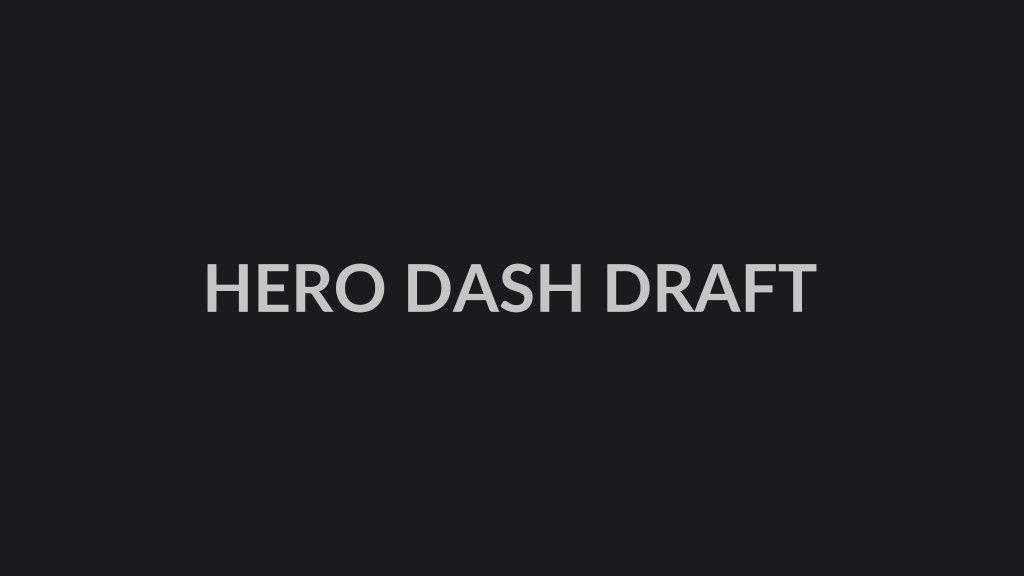
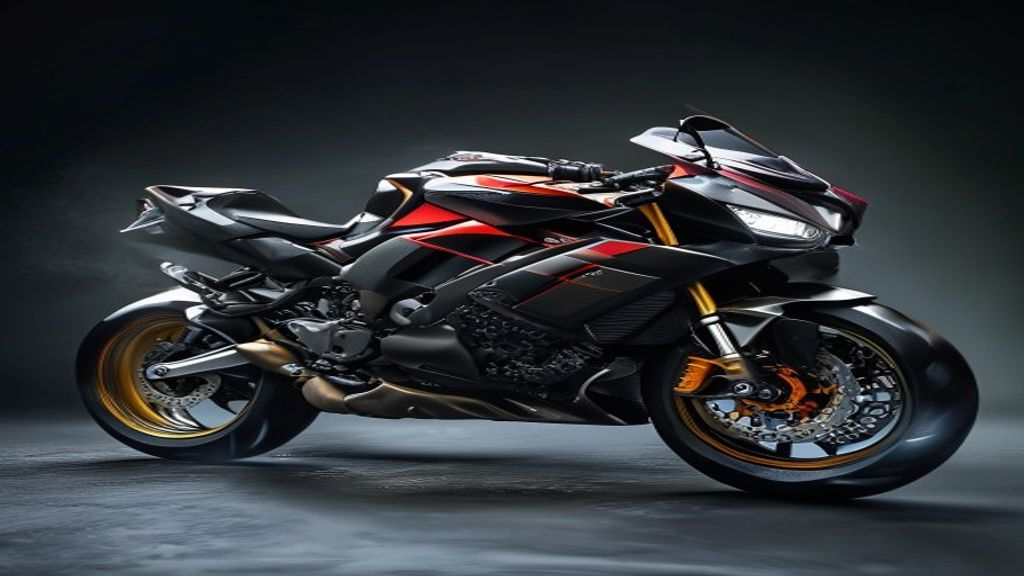
Update from Admin Panel (SDK Push) - 2026-06-10T13:17:52.278Z

diff --git a/src/pages/YedekParca.tsx b/src/pages/YedekParca.tsx
@@ -48,7 +48,7 @@ try {
   console.warn("Session storage read failed:", e);
 }
 
-const BRANDS_LIST = ["Tümü", "TVS", "Hero", "Falcon", "Işıldar", "RapidoX", "Kuba", "RKS", "Mondial", "HONDA", "BAJAJ", "BANDO", "NGK", "VARTA", "CFMOTO", "YAMAHA", "SUZUKI", "VESPA", "SYM"] as const;
+const BRANDS_LIST = ["Tümü", "TVS", "Hero", "Falcon", "Işıldar", "Vox", "RapidoX", "Kuba", "RKS", "Mondial", "HONDA", "BAJAJ", "BANDO", "NGK", "VARTA", "CFMOTO", "YAMAHA", "SUZUKI", "VESPA", "SYM"] as const;
 
 const CATEGORIES_LIST = [
   { slug: "tumu", name: "Tüm Kategoriler" },

diff --git a/src/pages/admin/AdminProducts.tsx b/src/pages/admin/AdminProducts.tsx
@@ -288,7 +288,7 @@ const AdminProducts = () => {
 
   const filtered = items;
 
-  const allBrands = ["TVS", "Hero", "Falcon", "Işıldar", "RapidoX", "Kuba", "RKS", "Mondial", "HONDA", "BAJAJ", "BANDO", "NGK", "VARTA", "CFMOTO", "YAMAHA", "SUZUKI", "VESPA", "SYM"];
+  const allBrands = ["TVS", "Hero", "Falcon", "Işıldar", "Vox", "RapidoX", "Kuba", "RKS", "Mondial", "HONDA", "BAJAJ", "BANDO", "NGK", "VARTA", "CFMOTO", "YAMAHA", "SUZUKI", "VESPA", "SYM"];
 
   const autoFixAllBrokenTitles = async () => {
     setOptimizingTitles(true);

diff --git a/src/lib/beautify-product.ts b/src/lib/beautify-product.ts
@@ -126,6 +126,7 @@ export function beautifyProduct(manufacturer: string, oemCode: string, rawName: 
     { key: "yamaha", name: "Yamaha" },
     { key: "kawasaki", name: "Kawasaki" },
     { key: "kuba", name: "Kuba" },
+    { key: "vox", name: "Vox" },
     { key: "rapidox", name: "RapidoX" },
     { key: "rks", name: "RKS" },
     { key: "tvs", name: "TVS" },

diff --git a/src/pages/admin/AdminBrands.tsx b/src/pages/admin/AdminBrands.tsx
@@ -53,6 +53,7 @@ const AdminBrands = () => {
           { id: "brand_hero", name: "Hero", desc: "Dünyanın en büyük iki tekerlekli araç üreticisi" },
           { id: "brand_falcon", name: "Falcon", desc: "Güvenilir ve ekonomik motosikletler" },
           { id: "brand_isildar", name: "Işıldar", desc: "Kaliteli Türk motosiklet markası" },
+          { id: "brand_vox", name: "Vox", desc: "Güvenlik, konfor ve şık tasarımı bir arada sunan seçkin motosiklet ve aksesuar markası" },
           { id: "brand_rapidox", name: "RapidoX", desc: "Orijinal ve yüksek kaliteli yedek parçalar sunan lider marka" },
           { id: "brand_honda", name: "Honda", desc: "Dünyaca ünlü yüksek kaliteli Japon motosiklet üreticisi" },
           { id: "brand_bajaj", name: "Bajaj", desc: "Dayanıklı ve ekonomik Hintli motosiklet üreticisi" },